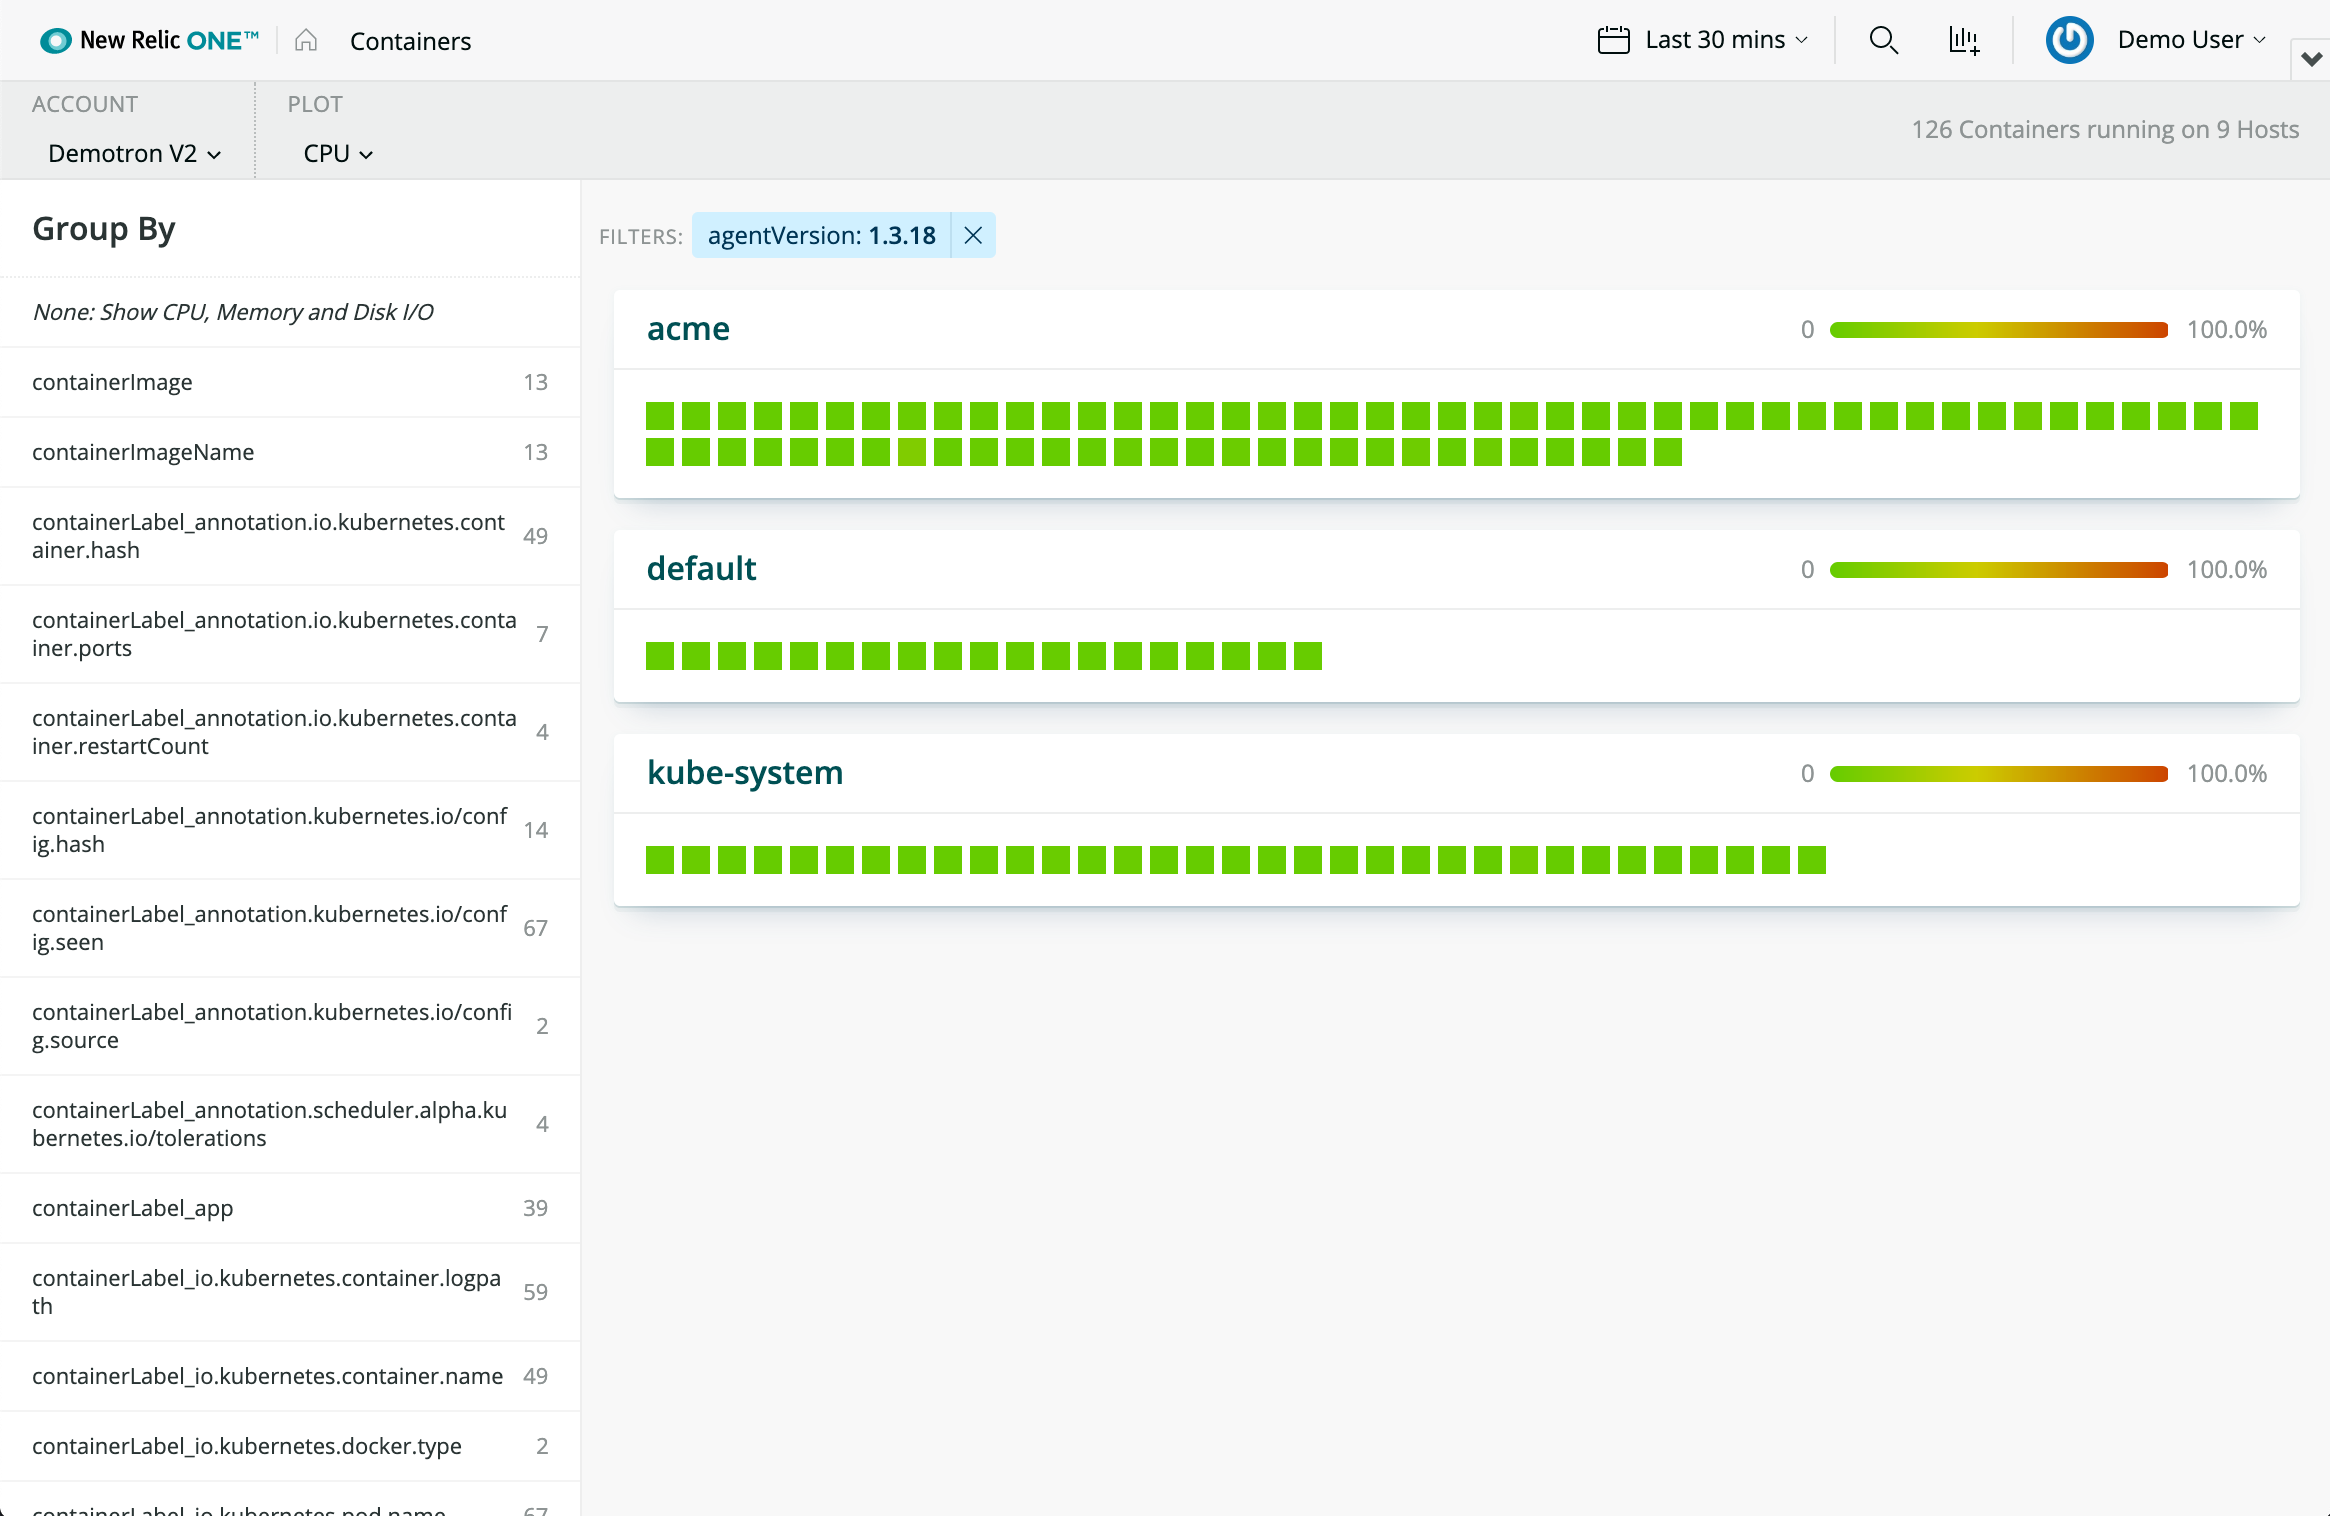
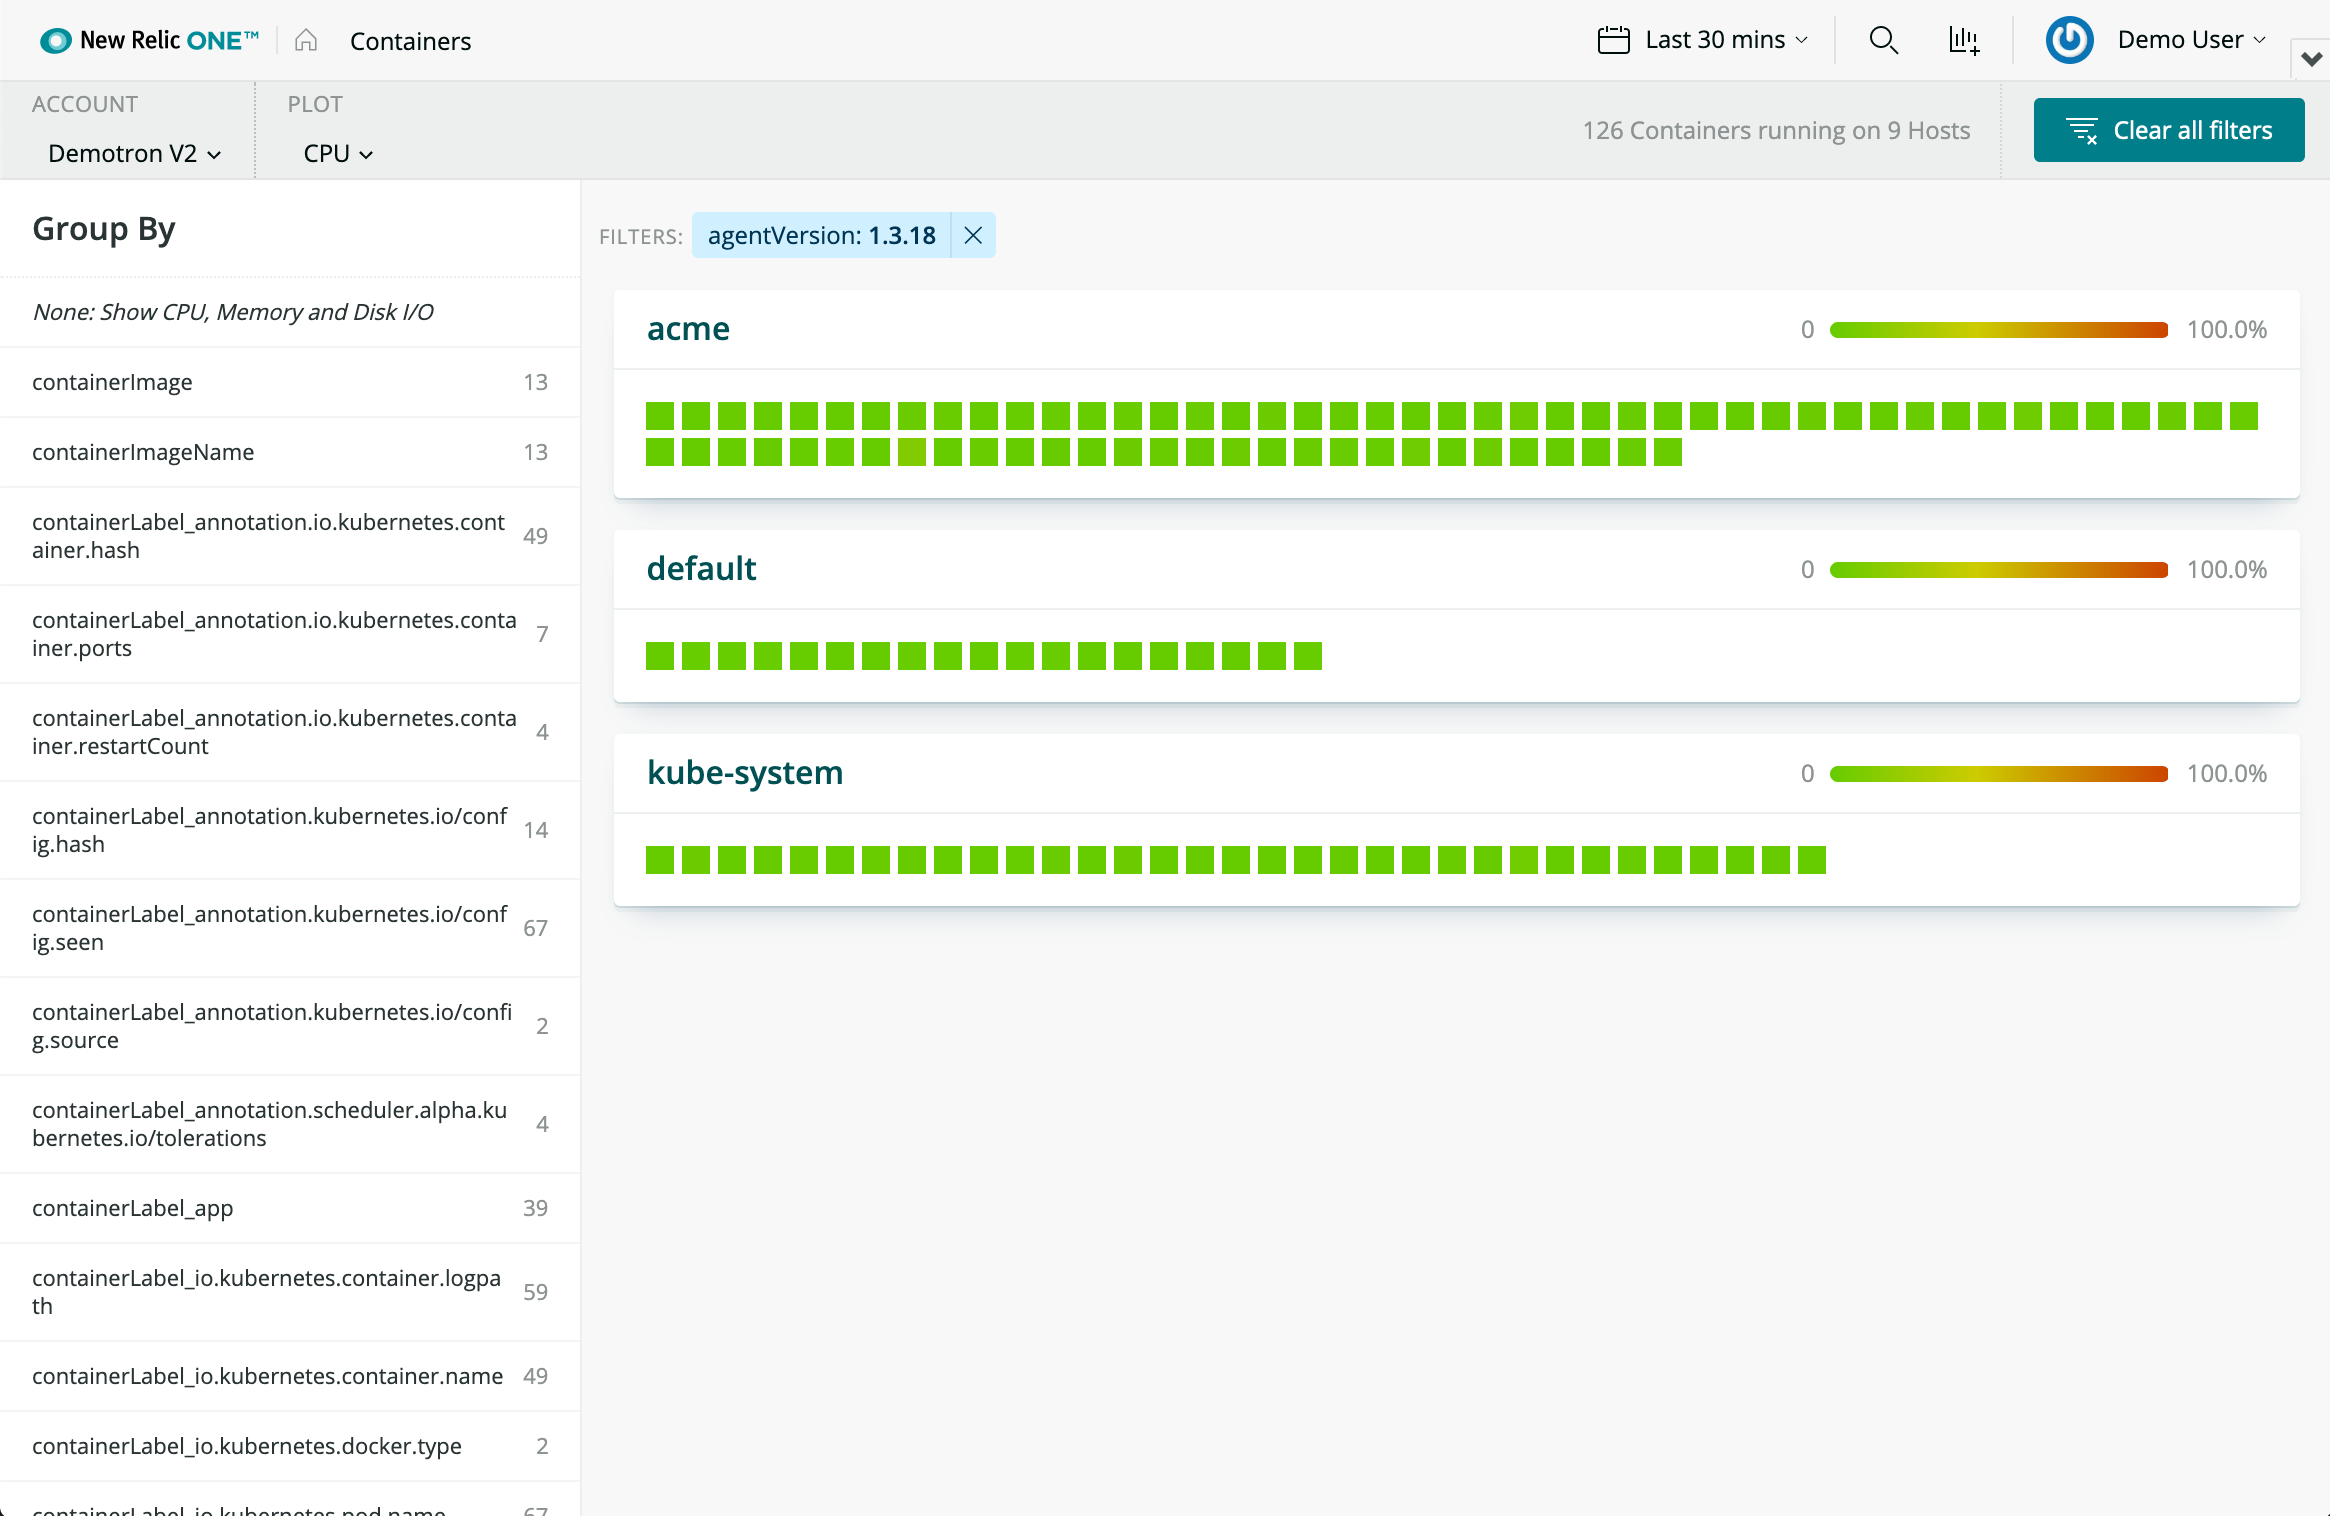
feat: add "remove all filters" button in header (#33)
* feat: add "remove all filters" button in header
* docs: update screenshot #1

Added to answer the questions "How do I reset
to see everything once I set multiple filters?".

#29

Changed region(s): [[0.6798, 0.062, 0.9888, 0.124]]

diff --git a/nerdlets/container-explorer/header.js b/nerdlets/container-explorer/header.js
@@ -1,4 +1,4 @@
-import { Stack, StackItem, Dropdown, DropdownItem } from 'nr1';
+import { Stack, StackItem, Dropdown, DropdownItem, Button } from 'nr1';
 import PLOTS from '../../lib/plots';
 
 function AccountPicker({ accounts, account, setAccount }) {
@@ -33,7 +33,7 @@ function PlotPicker({ group, counts, plot, setPlot }) {
 }
 
 export default function Header(props) {
-  const { counts } = props;
+  const { counts, removeAllFilters, filters } = props;
   return (
     <div className="header">
       <Stack
@@ -52,13 +52,30 @@ export default function Header(props) {
           </Stack>
         </StackItem>
 
-        {counts && (
-          <StackItem>
-            <span className="title">
-              {counts.containers} Containers running on {counts.hosts} Hosts
-            </span>
-          </StackItem>
-        )}
+        <StackItem className="header-right-side">
+          <Stack verticalType={Stack.VERTICAL_TYPE.CENTER}>
+            {counts && (
+              <StackItem>
+                <span className="title">
+                  {counts.containers} Containers running on {counts.hosts} Hosts
+                </span>
+              </StackItem>
+            )}
+            {filters.length > 0 && (
+              <StackItem className="remove-filters-stack-item">
+                <Button
+                  iconType={
+                    Button.ICON_TYPE.INTERFACE__OPERATIONS__FILTER__A_REMOVE
+                  }
+                  type={Button.TYPE.PRIMARY}
+                  onClick={removeAllFilters}
+                >
+                  Clear all filters
+                </Button>
+              </StackItem>
+            )}
+          </Stack>
+        </StackItem>
       </Stack>
     </div>
   );

diff --git a/nerdlets/container-explorer/container-explorer-nerdlet.js b/nerdlets/container-explorer/container-explorer-nerdlet.js
@@ -20,6 +20,7 @@ export default class ContainerExplorerNerdlet extends React.Component {
     this.setAccount = this.setAccount.bind(this);
     this.setPlot = this.setPlot.bind(this);
     this.setGroup = this.setGroup.bind(this);
+    this.removeAllFilters = this.removeAllFilters.bind(this);
 
     this.state = {
       filters: [],
@@ -52,6 +53,10 @@ export default class ContainerExplorerNerdlet extends React.Component {
 
     filters = filters.filter(f => !(f.name == name && f.value == value));
     this.setFilters(filters);
+  }
+
+  removeAllFilters() {
+    this.setFilters([]);
   }
 
   async setFilters(filters) {
@@ -122,6 +127,7 @@ export default class ContainerExplorerNerdlet extends React.Component {
           setAccount={this.setAccount}
           showFacetPicker={this.showFacetPicker}
           removeFilter={this.removeFilter}
+          removeAllFilters={this.removeAllFilters}
           setPlot={this.setPlot}
         />
         {counts && (

diff --git a/nerdlets/container-explorer/styles.scss b/nerdlets/container-explorer/styles.scss
@@ -93,6 +93,9 @@
     }
 
     .title {
+      height: 100%;
+      display: inline-block;
+      line-height: 48px;
       flex-grow: 1;
       text-align: right;
       font-size: 12px;
@@ -113,6 +116,25 @@
       display :none;
     }
   }
+}
+
+.header-right-side {
+  height: 100%;
+
+  [class*='wnd-Stack'] {
+    height: 100%;
+  }
+  
+  [class*='wnd-Button--medium'] {
+    position: relative;
+    top: 8px;
+  }
+}
+
+div.header-right-side .remove-filters-stack-item {
+  border-left: 1px dotted #d5d7d7;
+  padding-left: 16px;
+  margin-left: 16px;
 }
 
 .plot-picker-stack-item {
